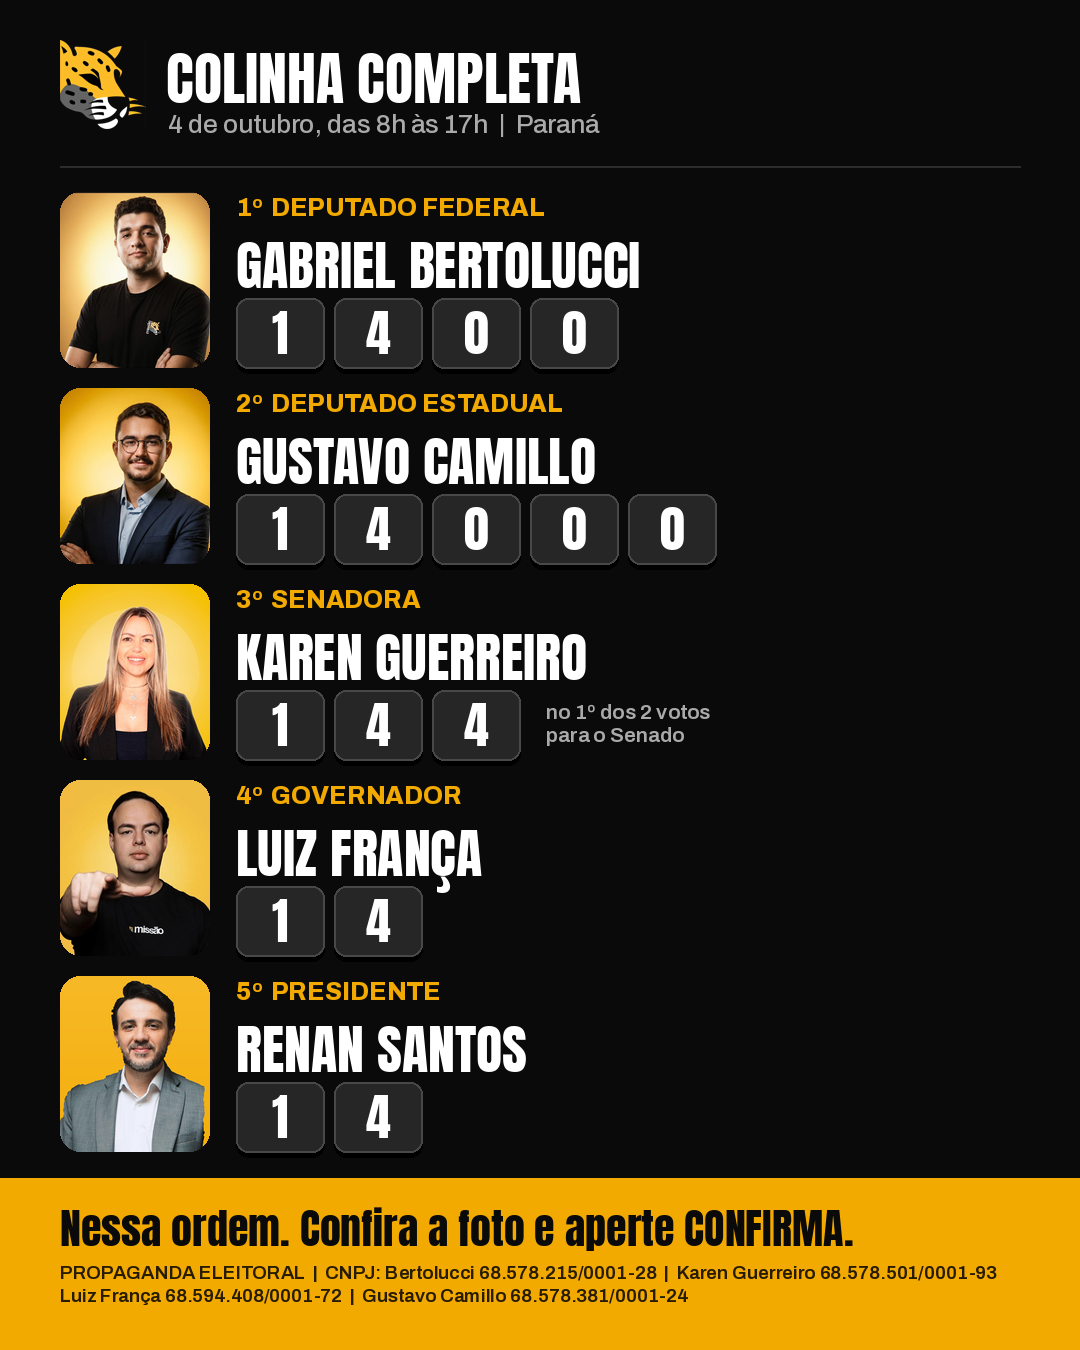
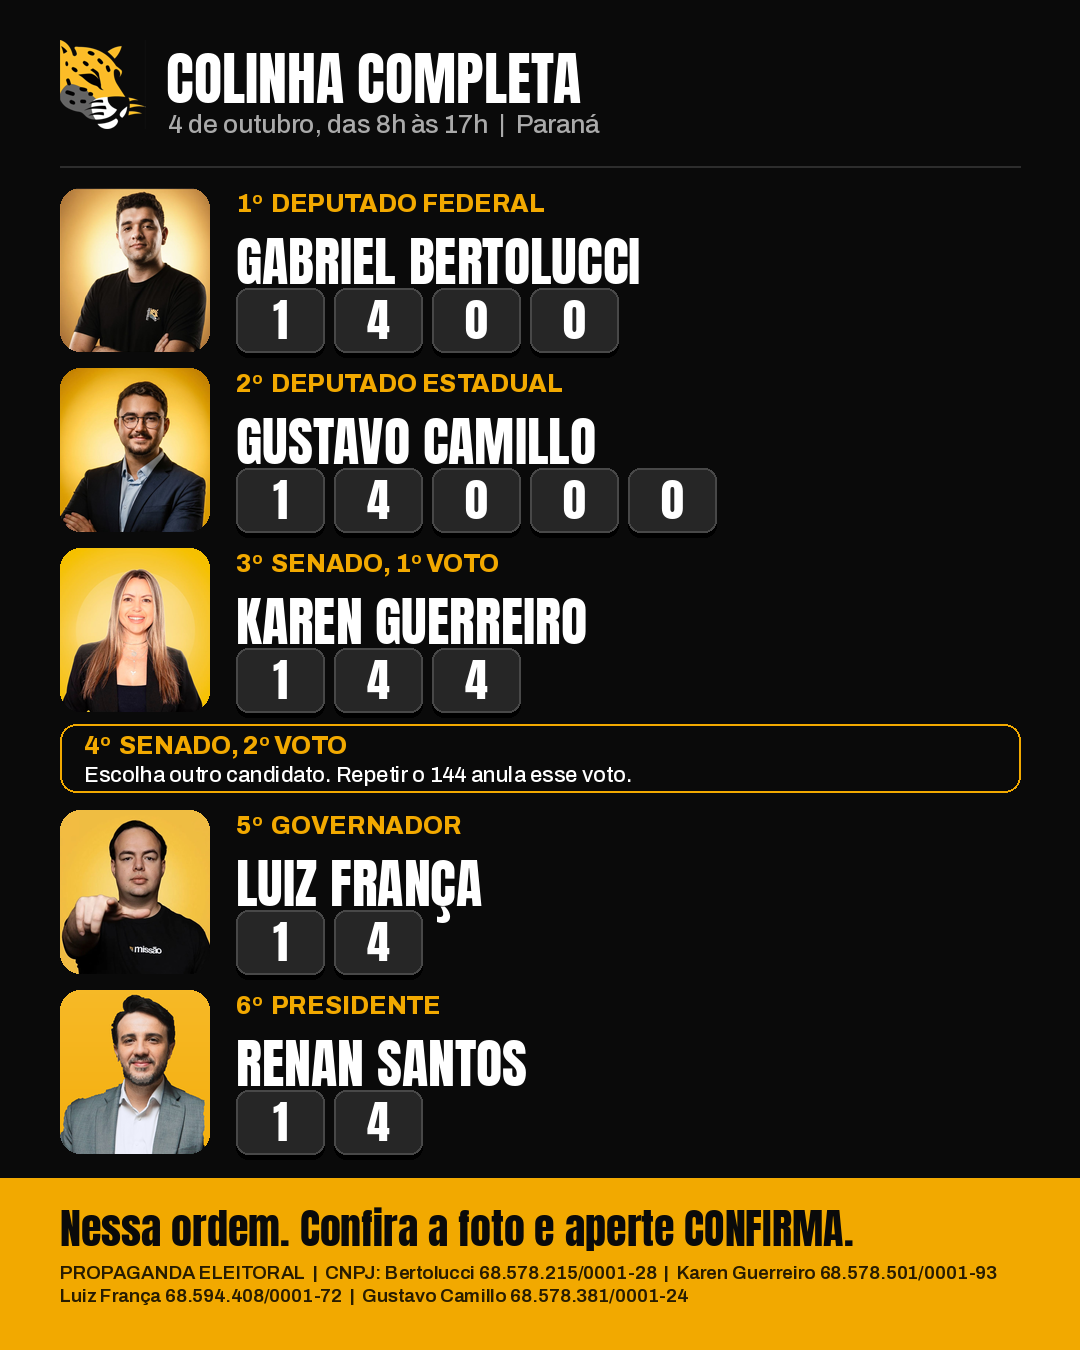
Colinha completa: explica os 2 votos para o Senado (1o voto Karen 144, 2o voto outro candidato; repetir anula)

Changed region(s): [[0.0306, 0.1244, 0.6722, 0.8711]]

diff --git a/colinha-bertolucci-mari.html b/colinha-bertolucci-mari.html
@@ -193,9 +193,10 @@ footer p+p{margin-top:6px}
   <ol class="urna">
     <li><span class="ordem">1º Deputado federal<small>Gabriel Bertolucci</small></span><span class="num">1400</span></li>
     <li><span class="ordem">2º Deputado estadual<small id="urnaNome">Gustavo Camillo</small></span><span class="num" id="urnaNum">14000</span></li>
-    <li><span class="ordem">3º Senadora<small>Karen Guerreiro, no 1º dos 2 votos para o Senado</small></span><span class="num">144</span></li>
-    <li><span class="ordem">4º Governador<small>Luiz França</small></span><span class="num">14</span></li>
-    <li><span class="ordem">5º Presidente<small>Renan Santos</small></span><span class="num">14</span></li>
+    <li><span class="ordem">3º Senado, 1º voto<small>Karen Guerreiro</small></span><span class="num">144</span></li>
+    <li><span class="ordem">4º Senado, 2º voto<small>Escolha outro candidato. Repetir o 144 anula esse voto.</small></span><span class="num">?</span></li>
+    <li><span class="ordem">5º Governador<small>Luiz França</small></span><span class="num">14</span></li>
+    <li><span class="ordem">6º Presidente<small>Renan Santos</small></span><span class="num">14</span></li>
   </ol>
   <p class="dica">Digite o número, confira a foto na tela e aperte CONFIRMA. Votação no dia 4 de outubro, das 8h às 17h.</p>
 </div></section>
@@ -257,9 +258,10 @@ footer p+p{margin-top:6px}
     '📲 *NA URNA:*',
     '1º Federal ➜ *1400*',
     '2º Estadual ➜ *14000* ou *14444*',
-    '3º Senadora Karen Guerreiro ➜ *144*',
-    '4º Governador Luiz França ➜ *14*',
-    '5º Presidente Renan Santos ➜ *14*',
+    '3º Senado, 1º voto ➜ *144* (Karen Guerreiro)',
+    '4º Senado, 2º voto ➜ outro candidato. Não repita o 144, senão esse voto é anulado',
+    '5º Governador ➜ *14* (Luiz França)',
+    '6º Presidente ➜ *14* (Renan Santos)',
     'Confira a foto e aperte CONFIRMA ✅',
     '',
     '👉 Colinha pra baixar: ' + URL_PAG,
@@ -270,7 +272,7 @@ footer p+p{margin-top:6px}
   var atual = 'camillo';
   function zapCurto(){
     var e = EST[atual];
-    return 'Minha colinha pro dia 4 de outubro 🗳\n\n1º Federal: *Gabriel Bertolucci 1400*\n2º Estadual: *' + e.nome + ' ' + e.num + '*\n3º Senadora: *Karen Guerreiro 144*\n4º Governador: *Luiz França 14*\n5º Presidente: *Renan Santos 14*\n\nVeja os motivos e baixe a colinha: ' + e.pag;
+    return 'Minha colinha pro dia 4 de outubro 🗳\n\n1º Federal: *Gabriel Bertolucci 1400*\n2º Estadual: *' + e.nome + ' ' + e.num + '*\n3º Senado, 1º voto: *Karen Guerreiro 144*\n4º Senado, 2º voto: outro candidato (repetir o 144 anula)\n5º Governador: *Luiz França 14*\n6º Presidente: *Renan Santos 14*\n\nVeja os motivos e baixe a colinha: ' + e.pag;
   }
   function aplicar(chave){
     if(!EST[chave]) return;
@@ -280,7 +282,7 @@ footer p+p{margin-top:6px}
     document.getElementById('urnaNome').textContent = e.nome;
     document.getElementById('urnaNum').textContent = e.num;
     var img = document.getElementById('colinhaImg');
-    img.src = e.img; img.alt = 'Colinha completa: Bertolucci 1400, ' + e.nome + ' ' + e.num + ', Karen Guerreiro 144, Luiz França 14, Renan Santos 14';
+    img.src = e.img; img.alt = 'Colinha completa: Bertolucci 1400, ' + e.nome + ' ' + e.num + ', Karen Guerreiro 144 no 1º voto para o Senado, Luiz França 14, Renan Santos 14';
     var bx = document.getElementById('btnBaixar');
     bx.href = e.img; bx.setAttribute('download', e.img.split('/').pop());
     var bd = document.getElementById('btnBaixarDep');

diff --git a/colinha-bertolucci.html b/colinha-bertolucci.html
@@ -193,9 +193,10 @@ footer p+p{margin-top:6px}
   <ol class="urna">
     <li><span class="ordem">1º Deputado federal<small>Gabriel Bertolucci</small></span><span class="num">1400</span></li>
     <li><span class="ordem">2º Deputado estadual<small id="urnaNome">Gustavo Camillo</small></span><span class="num" id="urnaNum">14000</span></li>
-    <li><span class="ordem">3º Senadora<small>Karen Guerreiro, no 1º dos 2 votos para o Senado</small></span><span class="num">144</span></li>
-    <li><span class="ordem">4º Governador<small>Luiz França</small></span><span class="num">14</span></li>
-    <li><span class="ordem">5º Presidente<small>Renan Santos</small></span><span class="num">14</span></li>
+    <li><span class="ordem">3º Senado, 1º voto<small>Karen Guerreiro</small></span><span class="num">144</span></li>
+    <li><span class="ordem">4º Senado, 2º voto<small>Escolha outro candidato. Repetir o 144 anula esse voto.</small></span><span class="num">?</span></li>
+    <li><span class="ordem">5º Governador<small>Luiz França</small></span><span class="num">14</span></li>
+    <li><span class="ordem">6º Presidente<small>Renan Santos</small></span><span class="num">14</span></li>
   </ol>
   <p class="dica">Digite o número, confira a foto na tela e aperte CONFIRMA. Votação no dia 4 de outubro, das 8h às 17h.</p>
 </div></section>
@@ -257,9 +258,10 @@ footer p+p{margin-top:6px}
     '📲 *NA URNA:*',
     '1º Federal ➜ *1400*',
     '2º Estadual ➜ *14000* ou *14444*',
-    '3º Senadora Karen Guerreiro ➜ *144*',
-    '4º Governador Luiz França ➜ *14*',
-    '5º Presidente Renan Santos ➜ *14*',
+    '3º Senado, 1º voto ➜ *144* (Karen Guerreiro)',
+    '4º Senado, 2º voto ➜ outro candidato. Não repita o 144, senão esse voto é anulado',
+    '5º Governador ➜ *14* (Luiz França)',
+    '6º Presidente ➜ *14* (Renan Santos)',
     'Confira a foto e aperte CONFIRMA ✅',
     '',
     '👉 Colinha pra baixar: ' + URL_PAG,
@@ -270,7 +272,7 @@ footer p+p{margin-top:6px}
   var atual = 'camillo';
   function zapCurto(){
     var e = EST[atual];
-    return 'Minha colinha pro dia 4 de outubro 🗳\n\n1º Federal: *Gabriel Bertolucci 1400*\n2º Estadual: *' + e.nome + ' ' + e.num + '*\n3º Senadora: *Karen Guerreiro 144*\n4º Governador: *Luiz França 14*\n5º Presidente: *Renan Santos 14*\n\nVeja os motivos e baixe a colinha: ' + e.pag;
+    return 'Minha colinha pro dia 4 de outubro 🗳\n\n1º Federal: *Gabriel Bertolucci 1400*\n2º Estadual: *' + e.nome + ' ' + e.num + '*\n3º Senado, 1º voto: *Karen Guerreiro 144*\n4º Senado, 2º voto: outro candidato (repetir o 144 anula)\n5º Governador: *Luiz França 14*\n6º Presidente: *Renan Santos 14*\n\nVeja os motivos e baixe a colinha: ' + e.pag;
   }
   function aplicar(chave){
     if(!EST[chave]) return;
@@ -280,7 +282,7 @@ footer p+p{margin-top:6px}
     document.getElementById('urnaNome').textContent = e.nome;
     document.getElementById('urnaNum').textContent = e.num;
     var img = document.getElementById('colinhaImg');
-    img.src = e.img; img.alt = 'Colinha completa: Bertolucci 1400, ' + e.nome + ' ' + e.num + ', Karen Guerreiro 144, Luiz França 14, Renan Santos 14';
+    img.src = e.img; img.alt = 'Colinha completa: Bertolucci 1400, ' + e.nome + ' ' + e.num + ', Karen Guerreiro 144 no 1º voto para o Senado, Luiz França 14, Renan Santos 14';
     var bx = document.getElementById('btnBaixar');
     bx.href = e.img; bx.setAttribute('download', e.img.split('/').pop());
     var bd = document.getElementById('btnBaixarDep');
